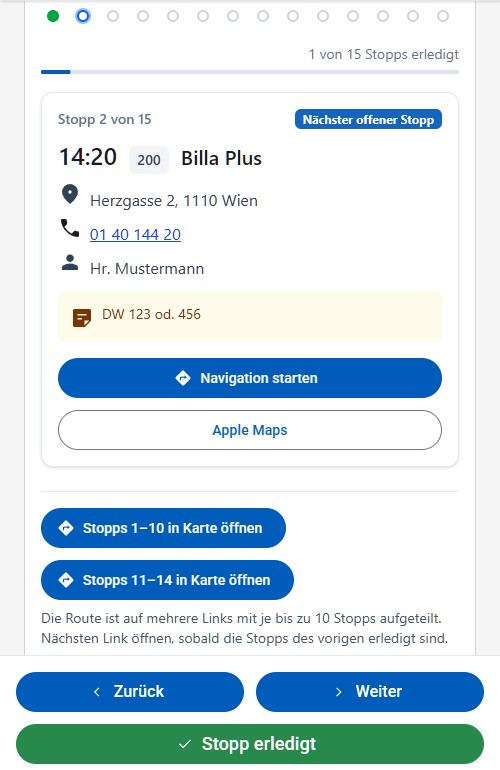
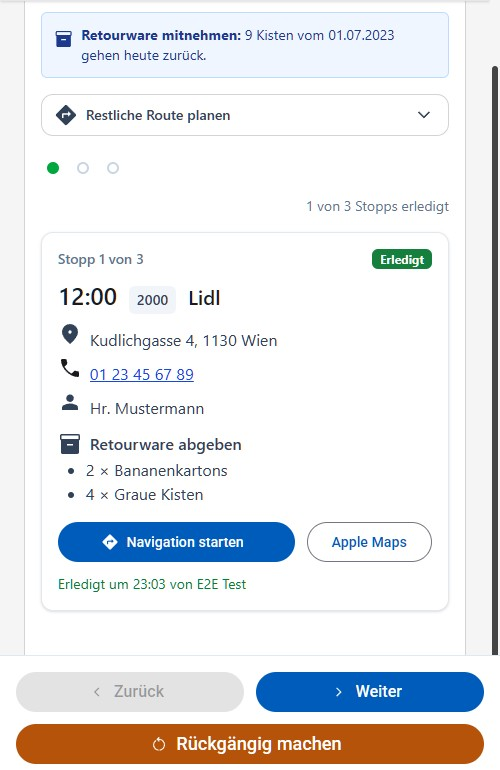
refactor(logistics): declutter the Routen-Navi screen
- Drop the percentage progress bar - the stepper dots already show the
  same per-stop progress, and the "X von Y" counter states it as a
  number; the bar was a third way of saying the same thing.
- De-style the per-stop "Retourware abgeben" box into a plain detail
  row like address/phone/contact, so it stops competing with the
  route-level "Retourware mitnehmen" banner for the same visual weight.
- Put Navigation starten and Apple Maps on one row instead of stacking
  two full-width buttons.
- Move "Restliche Route" up next to the other route-level banners and
  collapse it behind a toggle by default, since planning the rest of
  the drive is a different question from the current stop and doesn't
  need to be visible on every render.

diff --git a/frontend/src/main/webapp/src/app/modules/logistics/views/route-guidance/route-guidance.component.html b/frontend/src/main/webapp/src/app/modules/logistics/views/route-guidance/route-guidance.component.html
@@ -64,6 +64,43 @@
         </div>
       }
 
+      <!-- grouped with the banners above, not with the current stop below: this plans the rest of
+           the drive, which is a different question from "what do I do right now". Collapsed by
+           default (see remainingRouteExpanded) so it does not compete with the current stop for
+           space until a driver actually wants to look ahead. -->
+      @if (remainingRouteLinks().length > 0) {
+        <div class="tafel-panel mb-4">
+          <button type="button" class="flex w-full items-center gap-2 px-3 py-2 text-start text-sm font-medium text-slate-700"
+                  testid="guidance-whole-route-toggle"
+                  [attr.aria-expanded]="remainingRouteExpanded()"
+                  aria-controls="guidance-whole-route-panel"
+                  (click)="toggleRemainingRouteExpanded()">
+            <mat-icon svgIcon="directions" class="text-slate-400"></mat-icon>
+            Restliche Route planen
+            <mat-icon [svgIcon]="remainingRouteExpanded() ? 'keyboard_arrow_up' : 'keyboard_arrow_down'"
+                      class="ms-auto text-slate-500"></mat-icon>
+          </button>
+          <div id="guidance-whole-route-panel" role="region" aria-labelledby="guidance-whole-route-toggle"
+               class="px-3 pb-3" [hidden]="!remainingRouteExpanded()">
+            <div class="flex flex-wrap gap-3">
+              @for (link of remainingRouteLinks(); track link.label) {
+                <a matButton="filled" testid="guidance-whole-route-button" [href]="link.url"
+                   target="_blank" rel="noopener noreferrer"
+                   [attr.aria-label]="link.label + ' (in neuem Tab)'">
+                  <mat-icon svgIcon="directions" class="me-2"></mat-icon>
+                  {{ link.label }}
+                </a>
+              }
+            </div>
+            @if (remainingRouteChunkedHint(); as chunkedHint) {
+              <p class="mt-2 text-sm text-slate-600" testid="guidance-whole-route-chunked-hint">
+                {{ chunkedHint }}
+              </p>
+            }
+          </div>
+        </div>
+      }
+
       @if (stops().length > 0) {
         <!-- Orientation at a glance: which stops are done/current/still open, tappable to jump
              straight to one - without this, "how far along am I" meant paging through every stop. -->
@@ -89,15 +126,10 @@
         </div>
 
         <!-- directly above the stop, because that is what it is about: how far along the route the
-             stop on screen is. The bar carries the same figure as the counter - at the wheel the
-             share done is read off a fill, not off two numbers -->
-        <div class="mb-4">
-          <div class="flex justify-end text-sm text-slate-500" testid="guidance-summary">
-            {{ progressLabel() }}
-          </div>
-          <mat-progress-bar class="!mt-1 !h-2 !rounded-full" mode="determinate" testid="guidance-progress"
-                            [value]="completedPercent()" [attr.aria-label]="progressLabel()">
-          </mat-progress-bar>
+             stop on screen is. The dots above already show the same progress per stop - this is
+             just the figure spelled out as a fast-to-read count. -->
+        <div class="mb-4 flex justify-end text-sm text-slate-500" testid="guidance-summary">
+          {{ progressLabel() }}
         </div>
       }
 
@@ -163,13 +195,14 @@
           }
 
           @if (view.stop.returnItems.length > 0) {
-            <div class="mt-3 rounded-md border border-blue-200 bg-blue-50 p-3 text-blue-900"
-                 testid="guidance-stop-return-items">
-              <div class="flex items-center gap-2 font-semibold">
-                <mat-icon svgIcon="inventory_2"></mat-icon>
+            <!-- a plain detail row like address/phone/contact above, not a second boxed callout -
+                 the route-level "Retourware mitnehmen" banner already carries that visual weight -->
+            <div class="mt-3 text-slate-700" testid="guidance-stop-return-items">
+              <div class="flex items-center gap-2 font-medium">
+                <mat-icon svgIcon="inventory_2" class="text-slate-400"></mat-icon>
                 Retourware abgeben
               </div>
-              <ul class="ms-5 mt-1 list-disc">
+              <ul class="ms-7 mt-0.5 list-disc">
                 @for (item of view.stop.returnItems; track item.description) {
                   <li>{{ item.amount }} × {{ item.description }}</li>
                 }
@@ -178,25 +211,28 @@
           }
 
           <div class="mt-4 flex flex-wrap items-center gap-3">
-            @if (view.navigationUrl) {
-              <!-- purely the map app: progress is recorded exclusively via the completion button
-                   below -->
-              <a matButton="filled" class="w-full sm:w-auto" testid="guidance-navigate-button"
-                 [href]="view.navigationUrl" target="_blank" rel="noopener noreferrer"
-                 [attr.aria-label]="view.navigationLabel">
-                <mat-icon svgIcon="directions" class="me-2"></mat-icon>
-                Navigation starten
-              </a>
-            }
-            @if (view.appleMapsNavigationUrl) {
-              <!-- Google's link opens the Google Maps app when installed - this is the path for a
-                   driver on iOS who prefers Apple's own app instead -->
-              <a matButton="outlined" class="w-full sm:w-auto" testid="guidance-navigate-apple-button"
-                 [href]="view.appleMapsNavigationUrl" target="_blank" rel="noopener noreferrer"
-                 [attr.aria-label]="view.appleMapsNavigationLabel">
-                Apple Maps
-              </a>
-            }
+            <div class="flex w-full items-stretch gap-3 sm:w-auto">
+              @if (view.navigationUrl) {
+                <!-- purely the map app: progress is recorded exclusively via the completion button
+                     below -->
+                <a matButton="filled" class="flex-1 sm:flex-none" testid="guidance-navigate-button"
+                   [href]="view.navigationUrl" target="_blank" rel="noopener noreferrer"
+                   [attr.aria-label]="view.navigationLabel">
+                  <mat-icon svgIcon="directions" class="me-2"></mat-icon>
+                  Navigation starten
+                </a>
+              }
+              @if (view.appleMapsNavigationUrl) {
+                <!-- Google's link opens the Google Maps app when installed - this is the path for a
+                     driver on iOS who prefers Apple's own app instead. Kept compact and next to the
+                     primary button rather than a second full-width one below it. -->
+                <a matButton="outlined" class="shrink-0" testid="guidance-navigate-apple-button"
+                   [href]="view.appleMapsNavigationUrl" target="_blank" rel="noopener noreferrer"
+                   [attr.aria-label]="view.appleMapsNavigationLabel">
+                  Apple Maps
+                </a>
+              }
+            </div>
             @if (view.completedLabel) {
               <span class="text-sm" [class.text-green-700]="!view.pending" [class.text-amber-700]="view.pending"
                     testid="guidance-completed-label">
@@ -257,33 +293,10 @@
         </div>
       }
 
-      <!-- below the stop on purpose: it plans the rest of the drive, which is not what the driver
-           standing at this stop needs first -->
-      @if (remainingRouteLinks().length > 0) {
-        <div class="mt-6 border-t border-slate-200 pt-4">
-          <div class="flex flex-wrap gap-3">
-            @for (link of remainingRouteLinks(); track link.label) {
-              <a matButton="filled" testid="guidance-whole-route-button" [href]="link.url"
-                 target="_blank" rel="noopener noreferrer"
-                 [attr.aria-label]="link.label + ' (in neuem Tab)'">
-                <mat-icon svgIcon="directions" class="me-2"></mat-icon>
-                {{ link.label }}
-              </a>
-            }
-          </div>
-          @if (remainingRouteChunkedHint(); as chunkedHint) {
-            <p class="mt-2 text-sm text-slate-600" testid="guidance-whole-route-chunked-hint">
-              {{ chunkedHint }}
-            </p>
-          }
-        </div>
-      }
-
       <!-- Reserves the space the fixed action bar occupies on a phone, at the very end of the
-           scrollable content - not right after the stop card, which would only clear the bar for
-           the stop card itself and still leave this "Restliche Route" section (or, without it, the
-           stop card's own last line) sitting behind the bar once scrolled all the way down. Not
-           needed from `sm` up, where the bar sits in the normal flow instead. -->
+           scrollable content - not right after the stop card, which would leave the stop card's own
+           last line sitting behind the bar once scrolled all the way down. Not needed from `sm` up,
+           where the bar sits in the normal flow instead. -->
       @if (currentStop()) {
         <div class="h-32 sm:hidden" aria-hidden="true"></div>
       }

diff --git a/frontend/src/main/webapp/cypress/e2e/route-guidance.cy.ts b/frontend/src/main/webapp/cypress/e2e/route-guidance.cy.ts
@@ -50,7 +50,6 @@ describe('Route Guidance', () => {
     selectRoute2();
 
     cy.byTestId('guidance-summary').should('contain.text', '0 von 3 Stopps erledigt');
-    cy.byTestId('guidance-progress').should('have.attr', 'aria-valuenow', '0');
     cy.byTestId('guidance-stop-position').should('contain.text', 'Stopp 1 von 3');
     cy.byTestId('guidance-stop').should('contain.text', '12:00').should('contain.text', 'Lidl');
     cy.byTestId('guidance-stop-address').should('contain.text', 'Kudlichgasse 4, 1130 Wien');
@@ -175,8 +174,15 @@ describe('Route Guidance', () => {
       .and('contain', 'https://maps.apple.com/?daddr=')
       .and('contain', 'Kudlichgasse%204%2C%201130%20Wien');
 
+    // collapsed by default - planning the rest of the drive is not part of the per-stop flow
+    cy.byTestId('guidance-whole-route-toggle').should('have.attr', 'aria-expanded', 'false');
+    cy.byTestId('guidance-whole-route-button').should('not.be.visible');
+
+    cy.byTestId('guidance-whole-route-toggle').click();
+    cy.byTestId('guidance-whole-route-toggle').should('have.attr', 'aria-expanded', 'true');
     cy.byTestId('guidance-whole-route-button')
       .should('have.length', 1)
+      .should('be.visible')
       .should('contain.text', 'Restliche Route in Karte öffnen')
       .should('have.attr', 'href')
       .and('contain', 'destination=Simmeringer%20Hauptstra%C3%9Fe%205%2C%201140%20Wien')
@@ -184,10 +190,15 @@ describe('Route Guidance', () => {
 
     // only three stops, so nothing is chunked
     cy.byTestId('guidance-whole-route-chunked-hint').should('not.exist');
+
+    cy.byTestId('guidance-whole-route-toggle').click();
+    cy.byTestId('guidance-whole-route-toggle').should('have.attr', 'aria-expanded', 'false');
+    cy.byTestId('guidance-whole-route-button').should('not.be.visible');
   });
 
   it('chunks the remaining-route link into groups of ten stops for a route with more than that many open', () => {
     selectRoute('Route 1');
+    cy.byTestId('guidance-whole-route-toggle').click();
 
     cy.byTestId('guidance-whole-route-button').should('have.length', 2);
     cy.byTestId('guidance-whole-route-button').eq(0)
@@ -198,7 +209,7 @@ describe('Route Guidance', () => {
       .should('contain.text', 'Stopps 11–15 in Karte öffnen')
       .should('have.attr', 'href')
       .and('contain', 'https://www.google.com/maps/dir/?api=1&destination=');
-    cy.byTestId('guidance-whole-route-chunked-hint').scrollIntoView().should('be.visible');
+    cy.byTestId('guidance-whole-route-chunked-hint').should('be.visible');
 
     // completing stops down to ten or fewer open collapses back to a single, unnumbered link
     for (let i = 0; i < 6; i++) {
@@ -292,6 +303,14 @@ describe('Route Guidance', () => {
       // completing pages to the next stop - page back to check the completed one itself
       cy.byTestId('guidance-previous-button').click();
       cy.byTestId('guidance-done-badge').should('be.visible');
+
+      cy.checkAccessibility(MAIN_CONTENT);
+    });
+
+    it('has no violations with the remaining-route panel expanded', () => {
+      selectRoute2();
+      cy.byTestId('guidance-whole-route-toggle').click();
+      cy.byTestId('guidance-whole-route-button').should('be.visible');
 
       cy.checkAccessibility(MAIN_CONTENT);
     });

diff --git a/frontend/src/main/webapp/src/app/modules/logistics/views/route-guidance/route-guidance.component.ts b/frontend/src/main/webapp/src/app/modules/logistics/views/route-guidance/route-guidance.component.ts
@@ -6,7 +6,6 @@ import {FormsModule} from '@angular/forms';
 import {MatButtonModule} from '@angular/material/button';
 import {MatCardModule} from '@angular/material/card';
 import {MatFormFieldModule} from '@angular/material/form-field';
-import {MatProgressBar} from '@angular/material/progress-bar';
 import {MatSelectModule} from '@angular/material/select';
 import {MatIcon} from '@angular/material/icon';
 import {registerSvgIcons} from '../../../../common/util/svg-icon.util';
@@ -21,6 +20,8 @@ import callIcon from '@material-symbols/svg-400/outlined/call-fill.svg';
 import routeIcon from '@material-symbols/svg-400/outlined/route-fill.svg';
 import restartAltIcon from '@material-symbols/svg-400/outlined/restart_alt-fill.svg';
 import personIcon from '@material-symbols/svg-400/outlined/person-fill.svg';
+import keyboardArrowUpIcon from '@material-symbols/svg-400/outlined/keyboard_arrow_up-fill.svg';
+import keyboardArrowDownIcon from '@material-symbols/svg-400/outlined/keyboard_arrow_down-fill.svg';
 import {
   RouteApiService,
   RouteData,
@@ -83,7 +84,6 @@ interface StopView {
     MatButtonModule,
     MatCardModule,
     MatFormFieldModule,
-    MatProgressBar,
     MatSelectModule,
     MatIcon,
     TafelInfoTooltipComponent
@@ -101,7 +101,9 @@ export class RouteGuidanceComponent {
     call: callIcon,
     route: routeIcon,
     restart_alt: restartAltIcon,
-    person: personIcon
+    person: personIcon,
+    keyboard_arrow_up: keyboardArrowUpIcon,
+    keyboard_arrow_down: keyboardArrowDownIcon
   });
 
   routeList = model.required<RouteList>();
@@ -129,15 +131,20 @@ export class RouteGuidanceComponent {
   protected readonly completedCount = computed(() => this.stops().filter(stop => stop.completed).length);
   protected readonly unassignedReturnItems = computed(() => this._guidance()?.unassignedReturnItems ?? []);
 
-  protected readonly completedPercent = computed(() => {
-    const total = this.stops().length;
-    return total === 0 ? 0 : Math.round((this.completedCount() / total) * 100);
-  });
-
-  // one sentence for both the counter and the bar's accessible name, so the two cannot drift apart
+  // read off the stepper dots plus this one line - a separate percentage bar restated the same
+  // figure a second way without adding anything a driver could not already see in the dots
   protected readonly progressLabel = computed(
     () => `${this.completedCount()} von ${this.stops().length} Stopps erledigt`
   );
+
+  // collapsed by default: planning the rest of the drive is occasional (start of shift, a lull
+  // between stops), not part of the per-stop flow, so it should not compete with the current stop
+  // for space on every render
+  protected readonly remainingRouteExpanded = signal(false);
+
+  protected toggleRemainingRouteExpanded() {
+    this.remainingRouteExpanded.update(expanded => !expanded);
+  }
 
   // the day the boxes now going back were collected, formatted the way the rest of the app writes a
   // date; undefined when the last trip brought nothing back

diff --git a/frontend/src/main/webapp/src/app/modules/logistics/views/route-guidance/route-guidance.component.spec.ts b/frontend/src/main/webapp/src/app/modules/logistics/views/route-guidance/route-guidance.component.spec.ts
@@ -233,7 +233,7 @@ describe('RouteGuidanceComponent', () => {
     expect(component['completedCount']()).toBe(1);
   });
 
-  it('turns the counter into a percentage for the progress bar', () => {
+  it('counts progress for the summary line', () => {
     const fixture = createComponent();
     const component = fixture.componentInstance;
     routeApiMock.getRouteGuidance = vi.fn(() => of<RouteGuidanceData>({
@@ -245,7 +245,6 @@ describe('RouteGuidanceComponent', () => {
     fixture.detectChanges();
 
     expect(component['progressLabel']()).toBe('1 von 3 Stopps erledigt');
-    expect(component['completedPercent']()).toBe(33);
   });
 
   it('reports no progress at all for a route without stops', () => {
@@ -256,7 +255,7 @@ describe('RouteGuidanceComponent', () => {
     component['onSelectedRouteChange'](testRoute);
     fixture.detectChanges();
 
-    expect(component['completedPercent']()).toBe(0);
+    expect(component['progressLabel']()).toBe('0 von 0 Stopps erledigt');
   });
 
   it('builds a stop view with the labels the template renders', () => {
@@ -357,6 +356,20 @@ describe('RouteGuidanceComponent', () => {
       'Die Route ist auf mehrere Links mit je bis zu 10 Stopps aufgeteilt. Nächsten Link öffnen, '
       + 'sobald die Stopps des vorigen erledigt sind.'
     );
+  });
+
+  it('starts with the remaining-route panel collapsed and toggles it open', () => {
+    const fixture = createComponent();
+    const component = fixture.componentInstance;
+    component['onSelectedRouteChange'](testRoute);
+
+    expect(component['remainingRouteExpanded']()).toBe(false);
+
+    component['toggleRemainingRouteExpanded']();
+    expect(component['remainingRouteExpanded']()).toBe(true);
+
+    component['toggleRemainingRouteExpanded']();
+    expect(component['remainingRouteExpanded']()).toBe(false);
   });
 
   it('shows one stop at a time and opens on the first one still to do', () => {

diff --git a/docs/userguide/logistik.md b/docs/userguide/logistik.md
@@ -20,7 +20,7 @@ Die Abbildung zeigt die Seite so, wie sie unterwegs tatsächlich verwendet wird:
 
 Hat die Route bei ihrer letzten Fahrt Retourware mitgebracht, steht oberhalb des Stopps ein Hinweis, wie viele Kisten heute zurückgehen und von welchem Ausgabetag sie stammen. Beim jeweiligen Stopp ist dann unter **Retourware abgeben** aufgelistet, was bei dieser Filiale abzugeben ist (z. B. "4 × Graue Kisten"). Kisten einer Filiale, die auf der Route inzwischen nicht mehr angefahren wird, werden im Hinweis oben gesondert unter "Ohne Stopp auf dieser Route" angeführt, damit sie nicht übersehen werden. Grundlage ist die zuletzt erfasste Retourware der Route aus der [Waren-Eingabe](#warenerfassung); der laufende Ausgabetag wird dabei nicht herangezogen.
 
-Neben dem abgehakten Stopp werden Uhrzeit und Name der Person angezeigt, die ihn abgehakt hat. Der Zähler oben rechts zeigt den Fortschritt ("2 von 7 Stopps erledigt"), darunter derselbe Wert als Fortschrittsbalken.
+Neben dem abgehakten Stopp werden Uhrzeit und Name der Person angezeigt, die ihn abgehakt hat. Der Zähler oben rechts zeigt den Fortschritt ("2 von 7 Stopps erledigt") — dieselbe Information, die auch die Punktreihe darüber schon farblich zeigt.
 
 Ist beim Abhaken keine Internetverbindung vorhanden, erscheint ein Banner "Offline" am oberen Bildschirmrand; das Abhaken selbst wird trotzdem sofort auf dem Bildschirm übernommen (mit dem Hinweis "Ausstehend" statt Uhrzeit/Name) und automatisch übertragen, sobald die Verbindung wieder da ist — es entfällt also nicht, nur weil unterwegs gerade kein Empfang ist. Solange die Seite mit einer Route mit Stopps geöffnet ist, wird außerdem verhindert, dass sich der Bildschirm des Geräts von selbst sperrt, damit zwischen zwei Stopps nicht jedes Mal erst entsperrt werden muss.
 
@@ -30,7 +30,7 @@ Der abgehakte Fortschritt ist außerdem auf der [Übersicht](README.md#übersich
 
 **Navigation starten** öffnet die Navigation zur jeweiligen Filiale in der Karten-App des Geräts (am Handy die installierte Karten-App, am Computer die Karte im Browser). Daneben öffnet **Apple Maps** dieselbe Adresse gezielt in Apples eigener Karten-App, für Fahrer:innen auf iOS, die diese der Standard-Karten-App vorziehen. An keinem der beiden Knöpfe hängt der Fortschritt — abgehakt wird ausschließlich über die Knöpfe **Stopp erledigt**/**Rückgängig machen**.
 
-**Restliche Route in Karte öffnen** unterhalb der Stopps übergibt gleich mehrere noch offene Stopps als eine Fahrt an die Karten-App. In eine solche Fahrt passen bis zu zehn Stopps; sind mehr als zehn Stopps offen, erscheint statt eines einzelnen Knopfes ein Knopf je zehn Stopps (z. B. "Stopps 1–10 in Karte öffnen", "Stopps 11–15 in Karte öffnen") — jeder startet vom aktuellen Standort, der nächste wird erst geöffnet, sobald die Stopps des vorigen erledigt sind.
+**Restliche Route planen** oberhalb der Punktreihe übergibt gleich mehrere noch offene Stopps als eine Fahrt an die Karten-App — eingeklappt, da das Planen der restlichen Fahrt nicht zum eigentlichen Stopp-für-Stopp-Ablauf gehört; ein Antippen klappt den Bereich auf. In eine solche Fahrt passen bis zu zehn Stopps; sind mehr als zehn Stopps offen, erscheint statt eines einzelnen Knopfes ein Knopf je zehn Stopps (z. B. "Stopps 1–10 in Karte öffnen", "Stopps 11–15 in Karte öffnen") — jeder startet vom aktuellen Standort, der nächste wird erst geöffnet, sobald die Stopps des vorigen erledigt sind.
 
 Abgehakte Stopps gelten für den **jeweiligen Tag** und sind auch auf anderen Geräten sichtbar — ein zweites Handy oder die Zentrale sehen denselben Stand. Am nächsten Tag beginnt die Route wieder mit lauter offenen Stopps. Wird eine Route zwischenzeitlich unter [Einstellungen → Routen](einstellungen.md#routen) bearbeitet, geht der Fortschritt des Tages für diese Route verloren, da die Stopps dabei neu angelegt werden.
 
